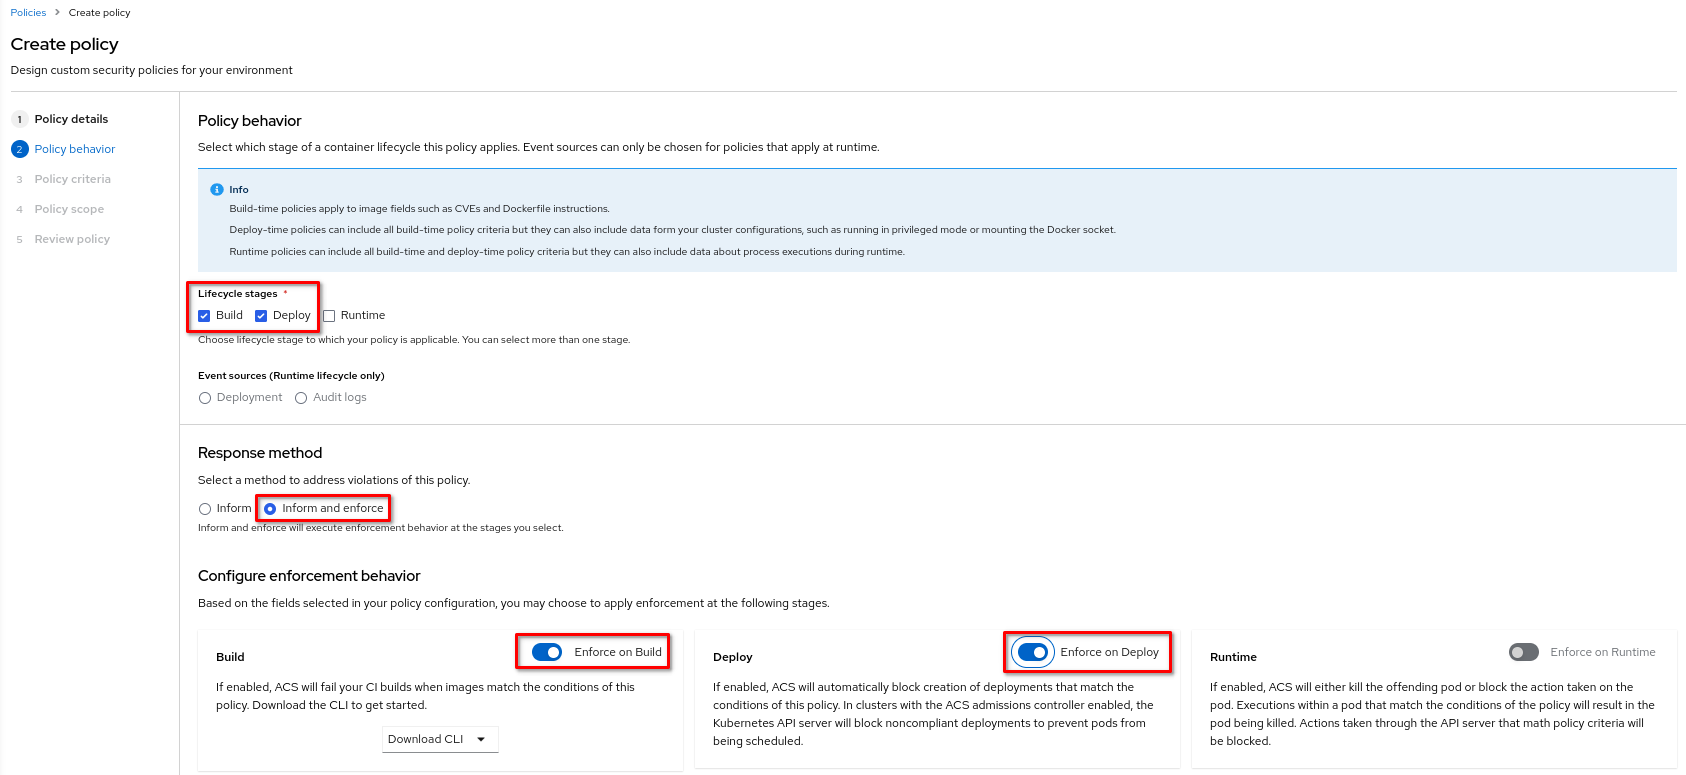
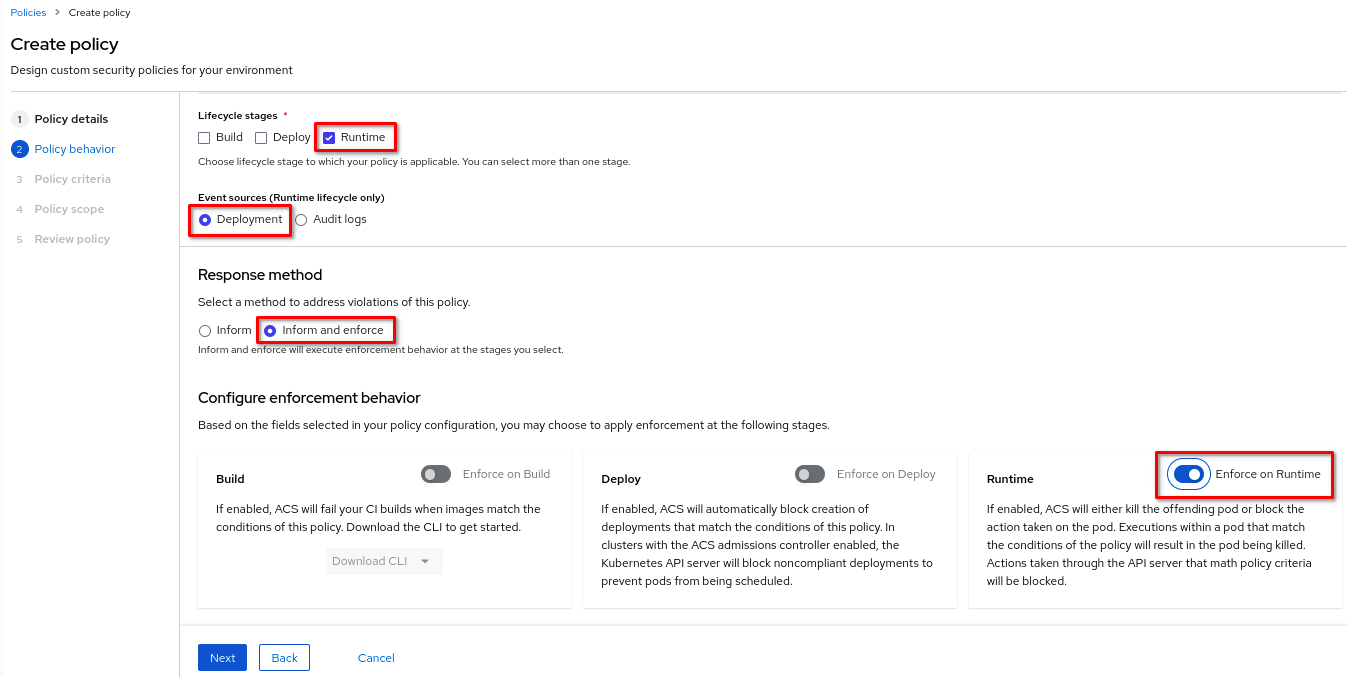
[CI] Publish Documentation for cf69d10b0f7ebcd301ea7a5436706b896a748eed - cf69d10b0f7ebcd301ea7a5436706b896a748eed 🚀

diff --git a/acs-workshop/10-system_policies.html b/acs-workshop/10-system_policies.html
@@ -503,8 +503,8 @@ Security gets their enforcement, and DevOps sees a “normal” failure from the
 <div class="ulist">
 <ul>
 <li>
-<p>Enter an example Name for the policy. <code>Example Docker Hub Policy</code>
-We will create an example policy for Docker Hub Registry because we dont want to download images from this registry.</p>
+<p>Enter an example Name for the policy. <code>Example Process Policy</code>
+We will create an example policy for process.</p>
 </li>
 <li>
 <p>Select a Severity level for this policy, either Critical, High, Medium, or Low. You can select <code>Medium</code></p>
@@ -516,10 +516,10 @@ We will create an example policy for Docker Hub Registry because we dont want to
 <p>Enter details about the policy in the Description box.</p>
 </li>
 <li>
-<p>Enter an explanation about why the policy exists in the Rationale box. <code>we dont want to download images from this registry.</code></p>
+<p>Enter an explanation about why the policy exists in the Rationale box. <code>we dont want to use dd command in the container.</code></p>
 </li>
 <li>
-<p>Enter steps to resolve violations of this policy in the Guidance box.Developer can see this message. For example <code>You can use just registry.redhat.io images. Please change your current image.</code></p>
+<p>Enter steps to resolve violations of this policy in the Guidance box.Users can see this message. For example <code>Please dont use "dd" command in the container</code></p>
 </li>
 <li>
 <p>Optional: Under the MITRE ATT&amp;CK section, select the tactics and the techniques you want to specify for the policy.You can add tactics and techniques for this policy.</p>
@@ -540,7 +540,7 @@ We will create an example policy for Docker Hub Registry because we dont want to
 <div class="ulist">
 <ul>
 <li>
-<p>Choose Lifecycle Stages to which your policy is applicable, from Build, Deploy, or Runtime.  We will select <code>Build and Deploy</code> for this example. You can select more than one stage.</p>
+<p>Choose Lifecycle Stages to which your policy is applicable, from Build, Deploy, or Runtime.  We will select <code>Runtime</code> for this example. You can select more than one stage.</p>
 <div class="ulist">
 <ul>
 <li>
@@ -611,7 +611,7 @@ We will create an example policy for Docker Hub Registry because we dont want to
 </div>
 </li>
 <li>
-<p>We will use <code>Image Registry</code> criteria at the <code>Image Registry</code> category as shown below.You can drag and drog and fill-up the box with <code>docker.io</code></p>
+<p>We will use <code>Process Activity</code> criteria at the <code>Process Name</code> category as shown below.You can drag and drog and fill-up the box with <code>dd</code></p>
 <div class="imageblock">
 <div class="content">
 <img src="_images/policies/15-policies.png" alt="ACS Policies 15" width="800">
@@ -654,7 +654,7 @@ We will create an example policy for Docker Hub Registry because we dont want to
 </ol>
 </div>
 <div class="paragraph">
-<p>Now let&#8217;s check the new policy. We will try to deploy application on Openshift Console.</p>
+<p>Now let&#8217;s check the new policy. We will try to run <code>dd</code> command one of container on Openshift Console.</p>
 </div>
 <div class="olist arabic">
 <ol class="arabic">
